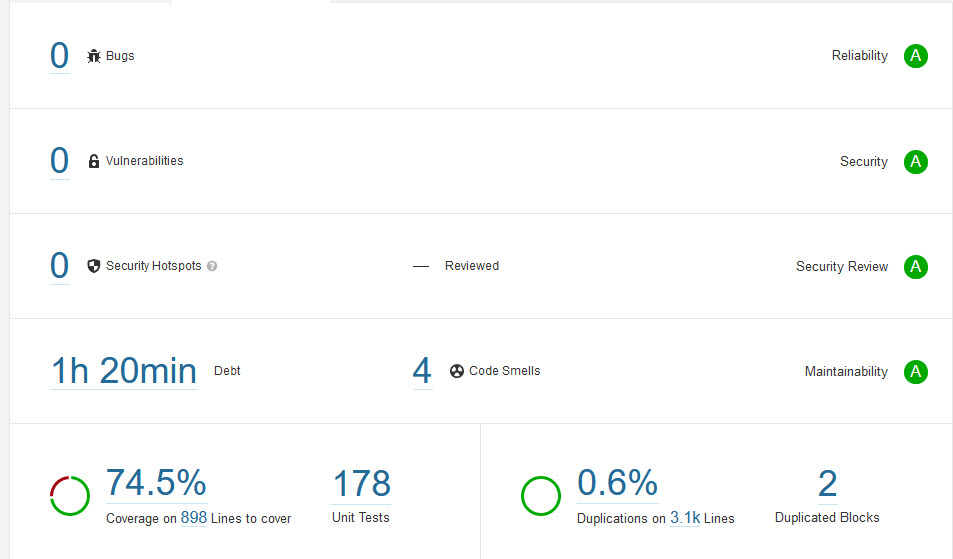
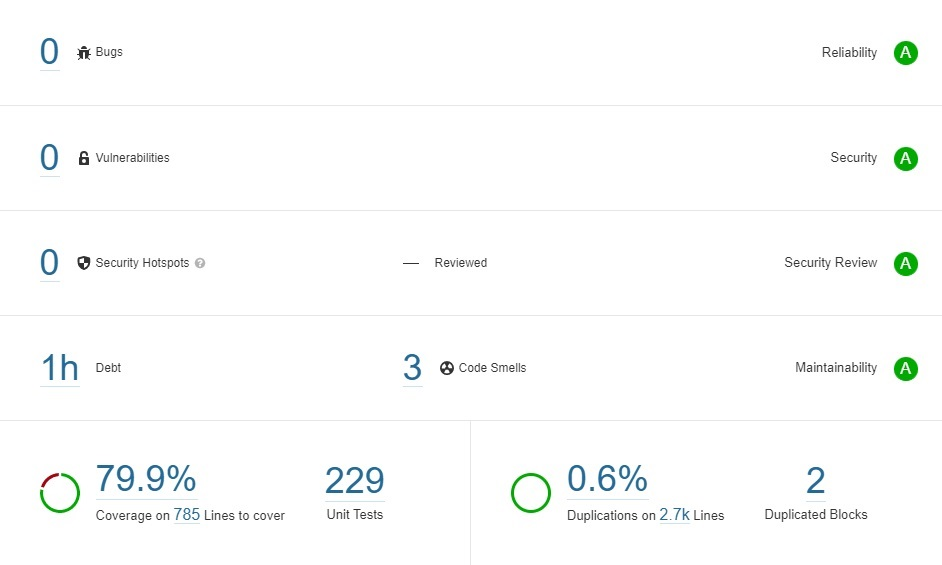
merge release crypto-primitives-domain 0.15.1.0

diff --git a/README.md b/README.md
@@ -20,22 +20,30 @@ We strive for excellent code quality to minimize the risk of bugs and vulnerabil
 
 ### SonarQube Analysis
 
-We parametrize SonarQube with the built-in Sonar way quality profile. The SonarQube analysis of the crypto-primitives-domain code reveals 0 bugs, 0 vulnerabilities, 0 security hotspots, and 2 code smells.
+We parametrize SonarQube with the built-in Sonar way quality profile. The SonarQube analysis of the crypto-primitives-domain code reveals 0 bugs, 0 vulnerabilities, 0 security hotspots, and 3 code smells.
 
 ![SonarQube](SonarQube.jpg)
 
-Out of the 4 code smells:
+Out of the 3 code smells:
 
-* 2 code smells concern duplicated blocks in the Return Code Generation classes. We left the code blocks as is since removing them reduces the code's readability.
-* 2 code smells concern too many parameters in constructor classes. We left the constructor classes as is to ensure a better alignment to the specification.
+* 2 code smells concern duplicated blocks. We left the code blocks as is since removing them reduces the code's readability.
+* 1 code smell concerns a constructor that has more than 7 input arguments. We prefer to keep the current constructor to better align with the system specification.
 
 ### Fortify Analysis
 
-The Fortify analysis showed 0 critical, 0 high, 0 medium, and 2 low criticality issues. We manually reviewed the 2 low-criticality issues and assessed them as false positives.
+The Fortify analysis showed 0 critical, 0 high, 0 medium, and 4 low criticality issues. We manually reviewed the 4 low-criticality issues and assessed them as false positives.
 
 ### JFrog X-Ray Analysis
 
 The X-Ray analysis indicates that none of the crypto-primitives-domain' 3rd party dependencies contains known vulnerabilities or non-compliant open source software licenses. As a general principle, we try to minimize external dependencies in cryptographic libraries and only rely on well-tested and widely used 3rd party components.
+
+## Change Log Release 0.15
+
+The following functionalities and improvements are included in release 0.15
+
+* Added new mixnet objects
+* Added additional validations on domain objects
+* Upgraded library to Java 17
 
 ## Change Log Release 0.14
 
